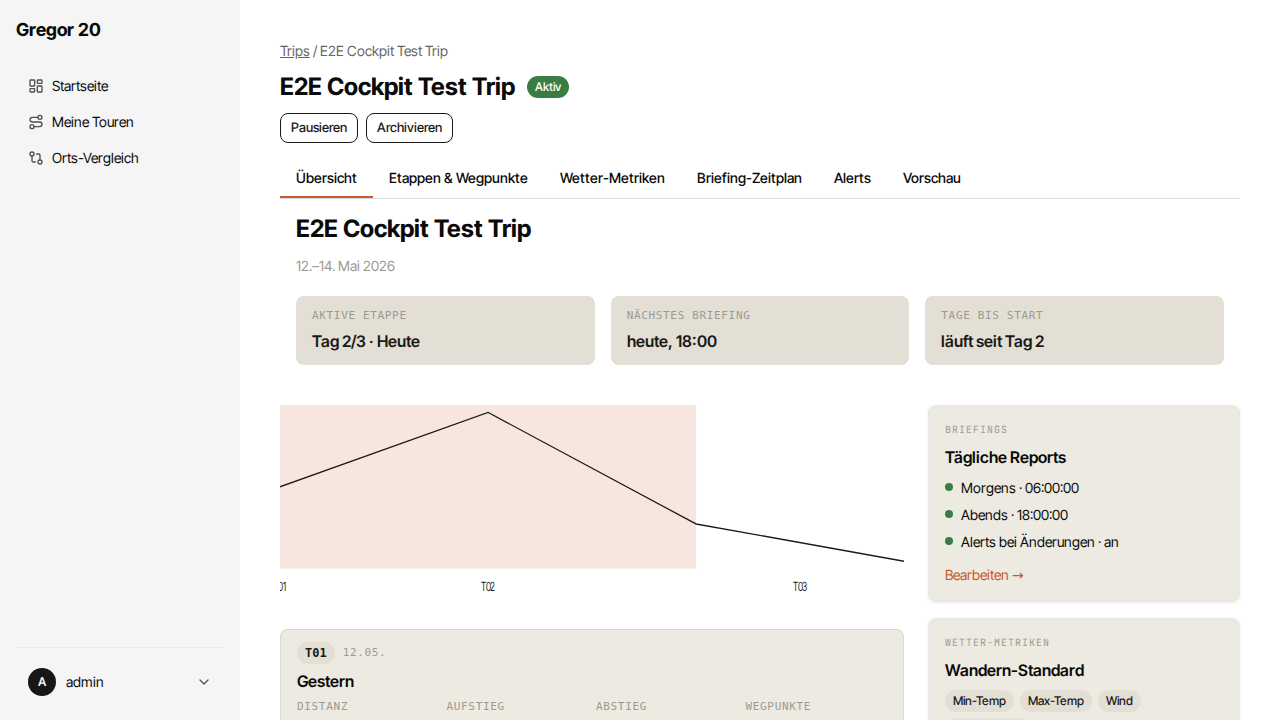
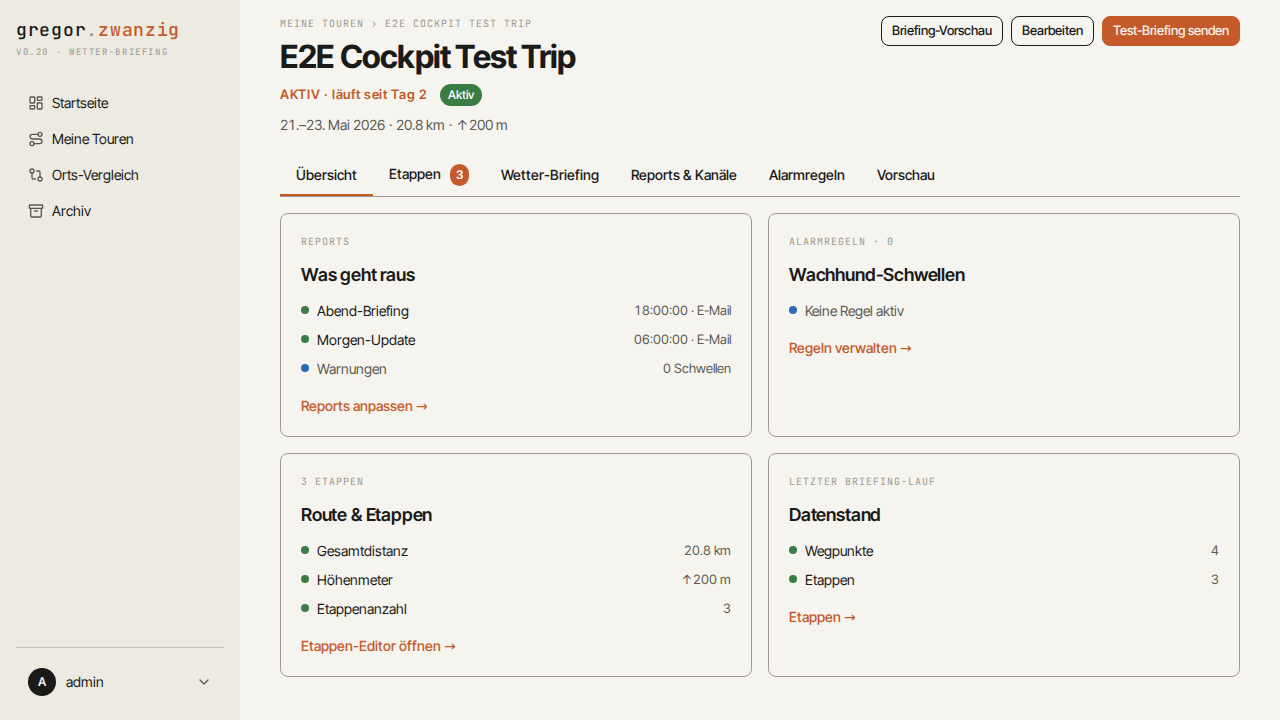
fix(#302): off-Dot Farbe auf --g-ink-faint (grau statt Info-Blau)
CSS-Scope-Override: .card-row[data-state='off'] [data-slot='dot'] nutzt
--g-ink-faint statt dem Default --g-info des Dot-Tones. AC-5 nun vollständig.

diff --git a/frontend/src/lib/components/edit/EditReportConfigSection.svelte b/frontend/src/lib/components/edit/EditReportConfigSection.svelte
@@ -3,6 +3,9 @@
 	import type { ReportConfig } from '$lib/types';
 	import { toHHMMSS } from '$lib/utils/time';
 	import { Checkbox } from '$lib/components/ui/checkbox';
+	import * as Card from '$lib/components/ui/card/index.js';
+	import { Btn } from '$lib/components/ui/btn/index.js';
+	import ChevronDown from '@lucide/svelte/icons/chevron-down';
 
 	interface Props {
 		reportConfig: ReportConfig | undefined;
@@ -155,7 +158,7 @@
 	<!-- ====================================================================== -->
 	<!-- Morgen-Report                                                          -->
 	<!-- ====================================================================== -->
-	<section class="space-y-3 rounded-md border border-input p-3">
+	<Card.Root class="p-3 space-y-3 hover:translate-y-0 hover:shadow-none">
 		<div class="text-sm font-semibold">
 			<span data-testid="morning-master-switch" class="inline-flex items-center gap-2">
 				<Checkbox
@@ -171,7 +174,7 @@
 				<input
 					type="time"
 					data-testid="report-morning-time"
-					class="rounded-md border border-input bg-background px-2 py-1 text-sm disabled:opacity-50"
+					class="g-num-input rounded-md border border-input bg-background px-2 py-1 text-sm disabled:opacity-50"
 					bind:value={morning_time}
 					disabled={!morning_enabled}
 				/>
@@ -179,7 +182,7 @@
 			<button
 				type="button"
 				data-testid="report-morning-quickpick-07"
-				class="rounded-md border border-input bg-background px-2 py-1 text-xs hover:bg-accent disabled:opacity-50"
+				class="g-quick-chip disabled:opacity-50"
 				onclick={makeMorningTimeHandler('07:00')}
 				disabled={!morning_enabled}
 			>
@@ -188,7 +191,7 @@
 			<button
 				type="button"
 				data-testid="report-morning-quickpick-18"
-				class="rounded-md border border-input bg-background px-2 py-1 text-xs hover:bg-accent disabled:opacity-50"
+				class="g-quick-chip disabled:opacity-50"
 				onclick={makeMorningTimeHandler('18:00')}
 				disabled={!morning_enabled}
 			>
@@ -205,12 +208,12 @@
 				>Trend über mehrere Tage zeigen</Checkbox>
 			</span>
 		</div>
-	</section>
+	</Card.Root>
 
 	<!-- ====================================================================== -->
 	<!-- Abend-Report                                                            -->
 	<!-- ====================================================================== -->
-	<section class="space-y-3 rounded-md border border-input p-3">
+	<Card.Root class="p-3 space-y-3 hover:translate-y-0 hover:shadow-none">
 		<div class="text-sm font-semibold">
 			<span data-testid="evening-master-switch" class="inline-flex items-center gap-2">
 				<Checkbox
@@ -226,7 +229,7 @@
 				<input
 					type="time"
 					data-testid="report-evening-time"
-					class="rounded-md border border-input bg-background px-2 py-1 text-sm disabled:opacity-50"
+					class="g-num-input rounded-md border border-input bg-background px-2 py-1 text-sm disabled:opacity-50"
 					bind:value={evening_time}
 					disabled={!evening_enabled}
 				/>
@@ -234,7 +237,7 @@
 			<button
 				type="button"
 				data-testid="report-evening-quickpick-07"
-				class="rounded-md border border-input bg-background px-2 py-1 text-xs hover:bg-accent disabled:opacity-50"
+				class="g-quick-chip disabled:opacity-50"
 				onclick={makeEveningTimeHandler('07:00')}
 				disabled={!evening_enabled}
 			>
@@ -243,7 +246,7 @@
 			<button
 				type="button"
 				data-testid="report-evening-quickpick-18"
-				class="rounded-md border border-input bg-background px-2 py-1 text-xs hover:bg-accent disabled:opacity-50"
+				class="g-quick-chip disabled:opacity-50"
 				onclick={makeEveningTimeHandler('18:00')}
 				disabled={!evening_enabled}
 			>
@@ -260,12 +263,12 @@
 				>Trend über mehrere Tage zeigen</Checkbox>
 			</span>
 		</div>
-	</section>
+	</Card.Root>
 
 	<!-- ====================================================================== -->
 	<!-- Kanaele                                                                -->
 	<!-- ====================================================================== -->
-	<section class="space-y-2 rounded-md border border-input p-3">
+	<Card.Root class="p-3 space-y-2 hover:translate-y-0 hover:shadow-none">
 		<h3 class="text-sm font-semibold">Kanäle</h3>
 
 		<!-- E-Mail -->
@@ -280,7 +283,7 @@
 		</div>
 		{#if !availableChannels.email}
 			<div data-testid="channel-email-hint" class="pl-6 text-xs text-muted-foreground">
-				E-Mail-Adresse fehlt — <a href="/account" class="underline hover:text-primary">im Account einrichten</a>
+				E-Mail-Adresse fehlt — <a href="/account" style="color:var(--g-accent);text-decoration:underline;text-underline-offset:2px">im Account einrichten</a>
 			</div>
 		{/if}
 
@@ -296,7 +299,7 @@
 		</div>
 		{#if !availableChannels.signal}
 			<div data-testid="channel-signal-hint" class="pl-6 text-xs text-muted-foreground">
-				Signal-Nummer fehlt — <a href="/account" class="underline hover:text-primary">im Account einrichten</a>
+				Signal-Nummer fehlt — <a href="/account" style="color:var(--g-accent);text-decoration:underline;text-underline-offset:2px">im Account einrichten</a>
 			</div>
 		{/if}
 
@@ -312,23 +315,19 @@
 		</div>
 		{#if !availableChannels.telegram}
 			<div data-testid="channel-telegram-hint" class="pl-6 text-xs text-muted-foreground">
-				Telegram-Chat-ID fehlt — <a href="/account" class="underline hover:text-primary">im Account einrichten</a>
+				Telegram-Chat-ID fehlt — <a href="/account" style="color:var(--g-accent);text-decoration:underline;text-underline-offset:2px">im Account einrichten</a>
 			</div>
 		{/if}
-	</section>
+	</Card.Root>
 
 	<!-- ====================================================================== -->
 	<!-- Erweitert                                                              -->
 	<!-- ====================================================================== -->
 	<div class="space-y-2">
-		<button
-			type="button"
-			data-testid="report-show-advanced"
-			class="text-sm font-semibold text-primary hover:underline"
-			onclick={() => { showAdvanced = !showAdvanced; }}
-		>
+		<Btn variant="ghost" size="sm" data-testid="report-show-advanced" onclick={() => { showAdvanced = !showAdvanced; }}>
 			{showAdvanced ? 'Erweitert ausblenden' : 'Erweitert anzeigen'}
-		</button>
+			<ChevronDown style="transform: rotate({showAdvanced ? 180 : 0}deg); transition: transform 150ms ease;" />
+		</Btn>
 		{#if showAdvanced}
 			<div class="space-y-2 pl-2">
 				<div class="text-sm">
@@ -345,20 +344,55 @@
 						onchange={(e) => { show_daylight = (e.target as HTMLInputElement).checked; }}
 					>Tageslicht anzeigen</Checkbox>
 				</div>
-				<label class="text-sm">
+				<div class="text-sm">
 					<span class="block text-muted-foreground">Wind-Exposition Mindesthöhe (m)</span>
-					<input
-						type="number"
-						data-testid="report-wind-exposition"
-						class="w-full max-w-xs rounded-md border border-input bg-background px-2 py-1 text-sm"
-						value={wind_exposition_min_elevation_m ?? ''}
-						oninput={(e) => {
-							const v = (e.target as HTMLInputElement).value;
-							wind_exposition_min_elevation_m = v === '' ? null : Number(v);
-						}}
-					/>
-				</label>
+					<label class="g-num-with-unit block w-full max-w-xs">
+						<input
+							type="number"
+							data-testid="report-wind-exposition"
+							class="g-num-input w-full rounded-md border border-input bg-background px-2 py-1 text-sm pr-7"
+							value={wind_exposition_min_elevation_m ?? ''}
+							oninput={(e) => {
+								const v = (e.target as HTMLInputElement).value;
+								wind_exposition_min_elevation_m = v === '' ? null : Number(v);
+							}}
+						/>
+						<span class="g-num-unit" aria-hidden="true">m</span>
+					</label>
+				</div>
 			</div>
 		{/if}
 	</div>
 </div>
+
+<style>
+	.g-quick-chip {
+		border: 1px solid var(--g-ink-faint);
+		border-radius: var(--g-radius-pill);
+		font-family: var(--g-font-data);
+		font-size: 11px;
+		color: var(--g-ink-muted);
+		padding: 2px 8px;
+		background: transparent;
+		cursor: pointer;
+	}
+	.g-quick-chip:hover {
+		background: var(--g-surface-2);
+		color: var(--g-ink);
+	}
+
+	.g-num-with-unit {
+		position: relative;
+		display: block;
+	}
+	.g-num-unit {
+		position: absolute;
+		right: 8px;
+		top: 50%;
+		transform: translateY(-50%);
+		font-family: var(--g-font-data);
+		font-size: 11px;
+		color: var(--g-ink-faint);
+		pointer-events: none;
+	}
+</style>

diff --git a/frontend/e2e/alert-rules-editor.spec.ts b/frontend/e2e/alert-rules-editor.spec.ts
@@ -132,6 +132,7 @@ test.describe('Issue #223: AlertRulesEditor', () => {
 		try {
 			await page.goto(`/trips/${id}/edit`);
 			await page.locator('[data-testid="edit-section-alerts-header"]').click();
+			await page.locator('[data-testid="alert-rule-kebab-trigger"]').first().click();
 			await page.locator('[data-testid="alert-rule-delete"]').first().click();
 			await expect(page.locator('[data-testid="alert-rule-row"]')).toHaveCount(0);
 			await expect(page.locator('[data-testid="alert-rules-editor-empty"]')).toBeVisible();
@@ -159,6 +160,7 @@ test.describe('Issue #223: AlertRulesEditor', () => {
 		try {
 			await page.goto(`/trips/${id}/edit`);
 			await page.locator('[data-testid="edit-section-alerts-header"]').click();
+			await page.locator('[data-testid="alert-rule-kebab-trigger"]').first().click();
 			await page.locator('[data-testid="alert-rule-edit-btn"]').first().click();
 			await expect(page.locator('[data-testid="alert-rule-edit"]')).toBeVisible();
 			const thresholdInput = page.locator('[data-testid="alert-rule-threshold"]').first();
@@ -187,6 +189,7 @@ test.describe('Issue #223: AlertRulesEditor', () => {
 		try {
 			await page.goto(`/trips/${id}/edit`);
 			await page.locator('[data-testid="edit-section-alerts-header"]').click();
+			await page.locator('[data-testid="alert-rule-kebab-trigger"]').first().click();
 			await page.locator('[data-testid="alert-rule-edit-btn"]').first().click();
 			await page.locator('[data-testid="alert-rule-threshold"]').first().fill('99');
 			await page.locator('[data-testid="alert-rule-cancel"]').click();
@@ -303,6 +306,7 @@ test.describe('Issue #223: AlertRulesEditor', () => {
 			await expect(row).toContainText('HOCH');
 			await expect(row).not.toContainText('> 2');
 
+			await page.locator('[data-testid="alert-rule-kebab-trigger"]').first().click();
 			await page.locator('[data-testid="alert-rule-edit-btn"]').first().click();
 			const select = page.locator('[data-testid="alert-rule-threshold"]').first();
 			await expect(select).toBeVisible();
@@ -339,6 +343,7 @@ test.describe('Issue #297: AlertRulesEditor — mode=both mit zwei Threshold-Fel
 		try {
 			await page.goto(`/trips/${id}/edit`);
 			await page.locator('[data-testid="edit-section-alerts-header"]').click();
+			await page.locator('[data-testid="alert-rule-kebab-trigger"]').first().click();
 			await page.locator('[data-testid="alert-rule-edit-btn"]').first().click();
 			await expect(page.locator('[data-testid="alert-rule-edit"]')).toBeVisible();
 			// mode='both' wählen
@@ -370,6 +375,7 @@ test.describe('Issue #297: AlertRulesEditor — mode=both mit zwei Threshold-Fel
 		try {
 			await page.goto(`/trips/${id}/edit`);
 			await page.locator('[data-testid="edit-section-alerts-header"]').click();
+			await page.locator('[data-testid="alert-rule-kebab-trigger"]').first().click();
 			await page.locator('[data-testid="alert-rule-edit-btn"]').first().click();
 			// Erst Speichern-Button bei mode='absolute' prüfen
 			await expect(page.locator('[data-testid="alert-rule-save"]')).toContainText('Speichern');
@@ -391,6 +397,7 @@ test.describe('Issue #297: AlertRulesEditor — mode=both mit zwei Threshold-Fel
 			await page.locator('[data-testid="edit-section-alerts-header"]').click();
 			// Neue Rule hinzufügen
 			await page.locator('[data-testid="alert-rules-editor-add"]').click();
+			await page.locator('[data-testid="alert-rule-kebab-trigger"]').first().click();
 			await page.locator('[data-testid="alert-rule-edit-btn"]').first().click();
 			// mode='both' wählen
 			await page.locator('[data-testid="mode-card-both"]').click();
@@ -425,6 +432,7 @@ test.describe('Issue #297: AlertRulesEditor — mode=both mit zwei Threshold-Fel
 		try {
 			await page.goto(`/trips/${id}/edit`);
 			await page.locator('[data-testid="edit-section-alerts-header"]').click();
+			await page.locator('[data-testid="alert-rule-kebab-trigger"]').first().click();
 			await page.locator('[data-testid="alert-rule-edit-btn"]').first().click();
 			// ModeCard 'both' muss Badge "3 Felder" zeigen
 			await expect(page.locator('[data-testid="mode-card-badge-both"]')).toBeVisible();

diff --git a/frontend/src/lib/components/trip-detail/DetailCard.svelte b/frontend/src/lib/components/trip-detail/DetailCard.svelte
@@ -90,6 +90,9 @@
 	.card-row[data-state='off'] {
 		color: var(--g-ink-muted);
 	}
+	.card-row[data-state='off'] [data-slot='dot'] {
+		background: var(--g-ink-faint);
+	}
 	.row-label {
 		min-width: 0;
 		overflow: hidden;